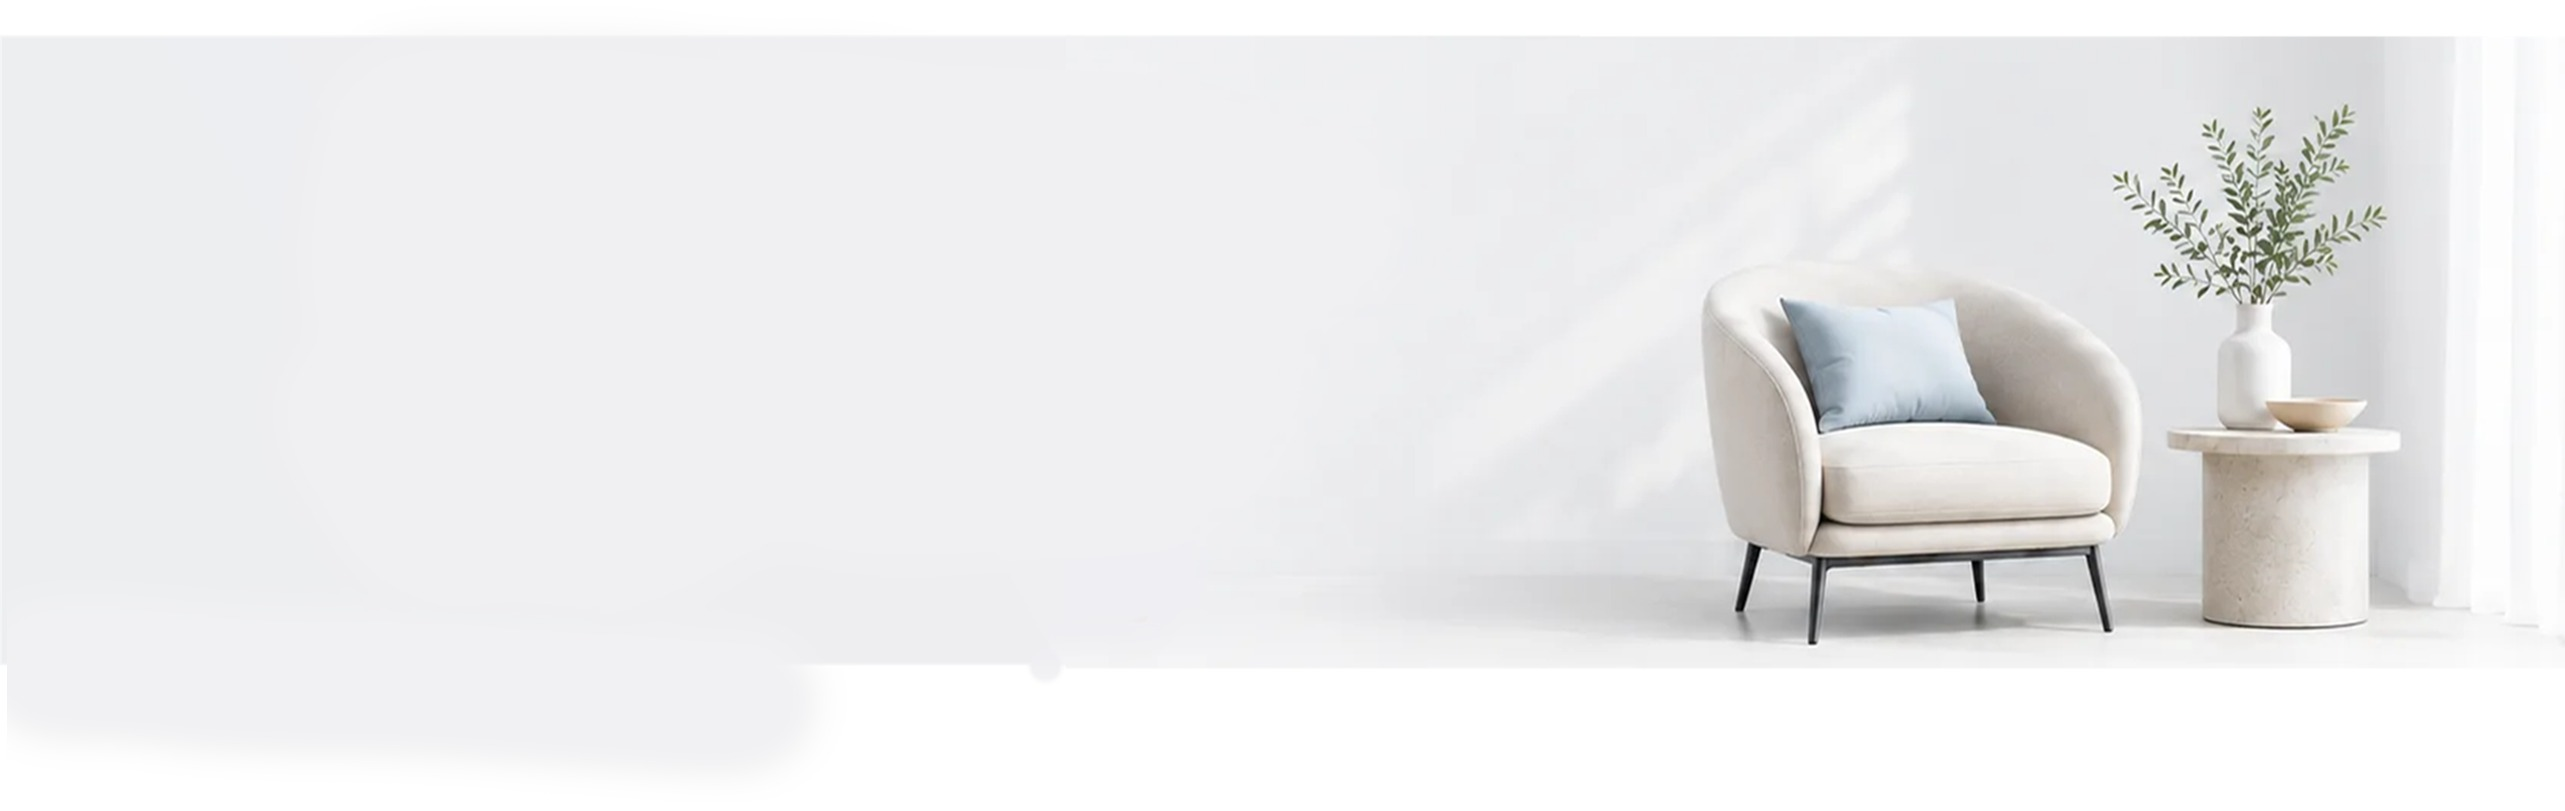
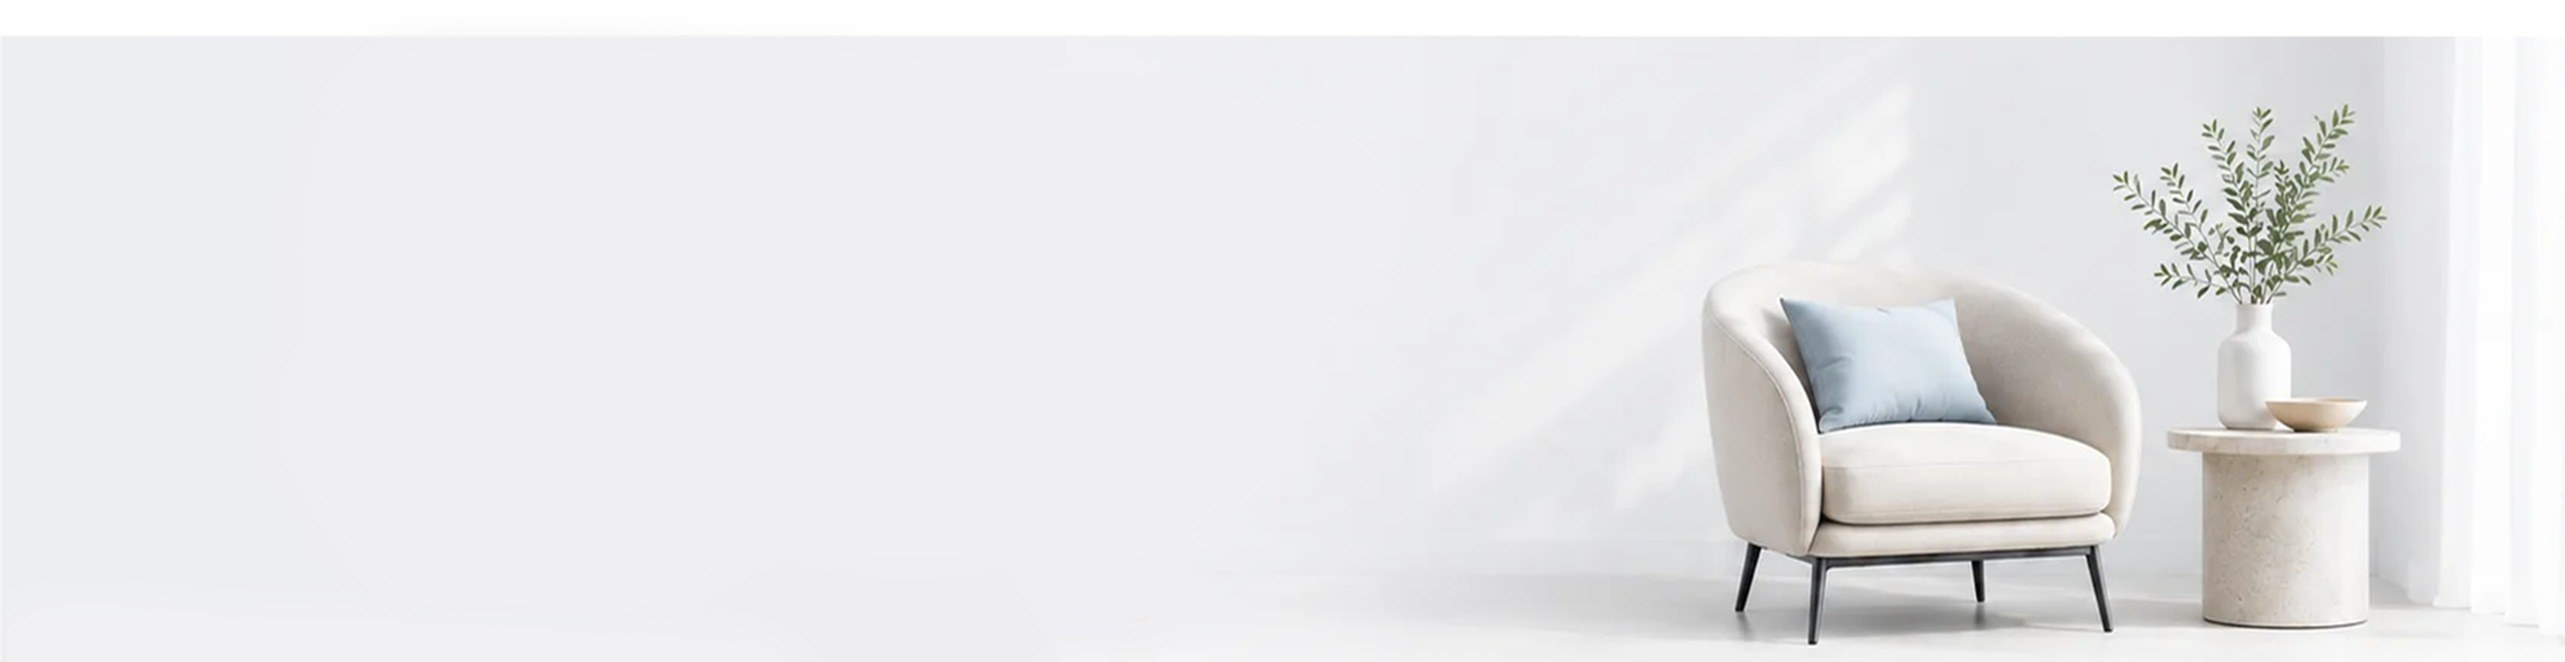
Адаптив: аудит 24 страниц × 8 ширин, каталог 2 колонки на планшете, шапка без переносов до 2299, герой без обрезки банки и артефакта фона, гап перед материалами, окна в одну колонку, ADAPTIVE.md

Changed region(s): [[0.5302, 0.1208, 0.9669, 0.997], [0.8421, 0.0302, 0.9357, 0.0604]]

diff --git a/02_верстка/css/responsive.css b/02_верстка/css/responsive.css
@@ -5,6 +5,29 @@
    Fluid-величины (clamp) уже привязаны к макету 2560 (1:2560).
    ========================================================================== */
 
+/* ---------- Герой: пока ширина < 1834px, min-height 420px выше расчётной
+   (22.9vw) — кроп съезжает и в кадр попадает белая полоса фотографии.
+   Прижимаем кадр к верху, макетная посадка (25%) остаётся для ≥1834. ---------- */
+@media (max-width: 1833px) {
+  /* кадр «шире» блока — держим в кадре кресло и растение справа */
+  .hero__bg { object-position: 72% top; }
+}
+
+/* ---------- Герой главной: на узких экранах высота по контенту ----------
+   Фиксированный min-height 420px при узком вьюпорте обрезал банку
+   (overflow: hidden у .hero). */
+@media (max-width: 900px) {
+  .hero__inner {
+    min-height: 0;
+    padding-block: clamp(28px, 5vw, 44px) clamp(20px, 4vw, 32px);
+  }
+  .hero__product { width: clamp(180px, 42vw, 260px); }
+
+  /* при узкой колонке cover «взумивает» фото до неузнаваемости — оставляем
+     чистый фон секции, композиция держится на банке и тексте */
+  .hero__bg { display: none; }
+}
+
 /* ---------- Планшет: две колонки там, где есть смысл ---------- */
 @media (min-width: 768px) {
   /* Преимущества: сетка 2×2 с разделителями-линиями сверху */
@@ -125,6 +148,40 @@
 
   /* В макете кнопка подвала не «прижата» к краю, а продолжает ряд */
   .footer__inner > .btn { margin-right: clamp(0px, 3.9vw, 100px); }
+}
+
+/* ---------- 1280–1919: шапка в одну строку ----------
+   В этом диапазоне макетные 2560-е отступы уже не влезают: ссылки
+   переносились по словам, CTA — на две строки. Ужимаем пропорционально. */
+@media (min-width: 1280px) and (max-width: 2299px) {
+  .logo { margin-right: clamp(20px, 3.2vw, 60px); }
+
+  .site-nav__list { gap: clamp(14px, 1.85vw, 35px); }
+  .site-nav__list a {
+    white-space: nowrap;
+    font-size: clamp(12px, 0.78vw, 15px);
+    letter-spacing: 0.01em;
+  }
+
+  .header__contacts { gap: 8px; flex-wrap: nowrap; }
+  .header__phone {
+    margin-right: 6px;
+    font-size: clamp(12px, 0.85vw, 16px);
+  }
+
+  .socials { gap: 5px; }
+  .socials img { height: clamp(30px, 2.2vw, 42px); }
+
+  .header__cta {
+    white-space: nowrap;
+    min-height: 44px;
+    padding: 10px clamp(14px, 1.5vw, 26px);
+    font-size: clamp(11px, 0.68vw, 13px);
+    letter-spacing: 0.04em;
+  }
+
+  .cart { margin-left: clamp(6px, 1.1vw, 20px); }
+  .cart img { width: clamp(50px, 3.9vw, 74px); }
 }
 
 /* Макетные переносы строк в описаниях — только на десктопе (как в PSD),

diff --git a/02_верстка/css/catalog.css b/02_верстка/css/catalog.css
@@ -575,22 +575,39 @@
 }
 
 @media (max-width: 1024px) {
+  /* две карточки в ряд: одна колонка на планшете выглядит пусто */
   .products {
-    grid-template-columns: 1fr;
+    grid-template-columns: repeat(2, minmax(0, 1fr));
+    gap: 16px;
   }
 
+  /* карточка становится вертикальной: горизонтальная при ~300px рвёт текст */
   .product {
+    flex-direction: column;
     min-height: 0;
   }
 
   .product__media {
     width: auto;
-    padding: 20px 14px 0 20px;
+    padding: 20px 16px 0;
+    justify-content: center;
   }
 
   .product__media img {
-    max-width: clamp(110px, 26vw, 200px);
+    max-width: clamp(120px, 22vw, 190px);
   }
+
+  .product__body {
+    padding: 14px 16px 18px;
+  }
+
+  .product__desc { max-width: none; }
+
+  .product__btn { width: 100%; }
+}
+
+@media (max-width: 620px) {
+  .products { grid-template-columns: minmax(0, 1fr); }
 }
 
 @media (max-width: 540px) {

diff --git a/02_верстка/css/modals.css b/02_верстка/css/modals.css
@@ -33,6 +33,7 @@
 
 .mcard__close {
   position: absolute;
+  z-index: 3; /* фото-панель .callback-photo тоже positioned — иначе перекрывает */
   top: clamp(8px, 1.4vw, 16px);
   right: clamp(8px, 1.9vw, 22px);
   display: grid;
@@ -161,7 +162,7 @@
 
 .callback-form__eyebrow {
   margin: 0;
-  font-size: clamp(11px, 0.59vw, 15px);
+  font-size: max(12px, clamp(11px, 0.59vw, 15px));
   font-weight: var(--fw-semibold);
   letter-spacing: 0.14em;
   text-transform: uppercase;
@@ -236,7 +237,7 @@
   align-items: center;
   gap: clamp(6px, 0.7vw, 18px);
   margin: clamp(10px, 1.09vw, 28px) 0 0;
-  font-size: clamp(10px, 0.66vw, 17px);
+  font-size: max(12px, clamp(10px, 0.66vw, 17px));
   font-weight: var(--fw-medium);
   color: #9fa5b3;
   white-space: nowrap;

diff --git a/02_верстка/css/cart.css b/02_верстка/css/cart.css
@@ -396,16 +396,15 @@
   background: var(--color-white);
   border-radius: 4px;
   box-shadow: 0 4px 18px rgba(23, 30, 49, 0.16);
-  opacity: 0;
-  visibility: hidden;
-  transition: opacity 0.2s ease, visibility 0.2s ease;
+  /* скрытая подсказка не участвует в раскладке: иначе на узких экранах
+     она шире вьюпорта и даёт горизонтальный скролл */
+  display: none;
 }
 
 .tip__btn:hover + .tip__pop,
 .tip__btn:focus-visible + .tip__pop,
 .tip__pop:hover, .tip__pop:focus-within {
-  opacity: 1;
-  visibility: visible;
+  display: block;
 }
 
 /* Инфо-плашка о бесплатной доставке */

diff --git a/02_верстка/css/color.css b/02_верстка/css/color.css
@@ -281,6 +281,12 @@
     grid-template-columns: 1fr;
   }
 
+  /* в одну колонку CTA прилипает к заголовку следующей секции */
+  .c-materials { padding-top: clamp(32px, 4.4vw, 56px); }
+
+  /* одна колонка — кнопка на всю ширину, как остальные блоки */
+  .c-hero__cta { width: 100%; }
+
   .c-swatch__fill {
     height: clamp(120px, 22vw, 200px);
   }

diff --git a/02_верстка/css/contacts.css b/02_верстка/css/contacts.css
@@ -197,3 +197,10 @@
     padding-right: clamp(160px, 20.94vw, 402px);
   }
 }
+
+
+/* На узких экранах фоновая фотография (кресло/ваза в левой колонке)
+   попадает под форму и мешает читать — оставляем чистый фон. */
+@media (max-width: 900px) {
+  .contacts-page { background-image: none; }
+}

diff --git a/02_верстка/ADAPTIVE.md b/02_верстка/ADAPTIVE.md
@@ -1,0 +1,39 @@
+# Адаптив: как устроен и как проверять
+
+## Брейкпоинты (единая сетка)
+
+| Ширина | Что происходит |
+|---|---|
+| **≥ 2300px** | Полная макетная композиция PSD 2560 (1:1) |
+| **1920–2299** | Макет держится, шапка ужимается пропорционально (иначе пункты меню переносятся) |
+| **1280–1919** | Шапка в одну строку за счёт `clamp`, преимущества 2×2, каталог 2 колонки |
+| **1024–1279** | Бургер-меню, каталог: фильтр сверху + карточки 2 в ряд, страница цвета в одну колонку |
+| **768–1023** | Планшет: карточки товара вертикальные, преимущества 2×2, галереи 2 в ряд |
+| **540–767** | Мобильный landscape: 1–2 колонки, кнопки на всю ширину |
+| **360–539** | Мобильный portrait: всё в одну колонку, тач-таргеты 44px, кегль ≥ 12px |
+
+Все величины внутри файлов экранов заданы через `clamp(min, <доля vw от 2560>, max)` —
+поэтому между брейкпоинтами верстка уменьшается **непрерывно**, а медиа-запросы
+меняют только композицию (число колонок, порядок блоков, показ/скрытие элементов).
+
+## Что проверено
+
+Автоматический аудит `psd-extract/audit-adapt.js` — 24 страницы × 8 ширин
+(1920 / 1440 / 1280 / 1024 / 768 / 540 / 390 / 360):
+
+- горизонтальный скролл — **0**;
+- элементы, выходящие за вьюпорт, — **0**;
+- текст мельче 12px — **0**;
+- JS-ошибки и 404 ресурсов — **0**.
+
+## Ключевые правила
+
+- **Тач-таргеты** ≥ 44×44: крестики окон, кнопки-иконки, сортировка, пагинация, табы.
+- **Поля ввода** ≥ 44px и шрифт ≥ 16px (iOS не зумит страницу).
+- **Скрытые подсказки** (`display: none`) не участвуют в раскладке — иначе тултип
+  шире экрана даёт горизонтальный скролл.
+- **Фото героя**: на ≤ 900px фоновое фото отключается (cover-зум делает кадр
+  нечитаемым); композиция держится на банке и тексте.
+- **Модальные окна** на ≤ 720px — в одну колонку, кнопки на всю ширину.
+- **Шапка** на 1280–2299 — компактная: меню без переносов, соцсети и кнопка звонка
+  уменьшены, корзина сохранена.
